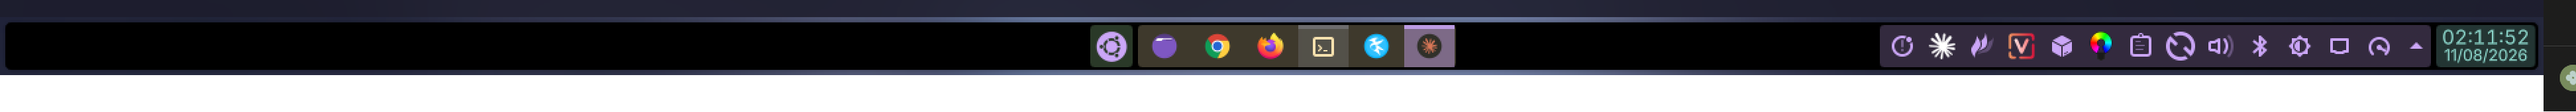
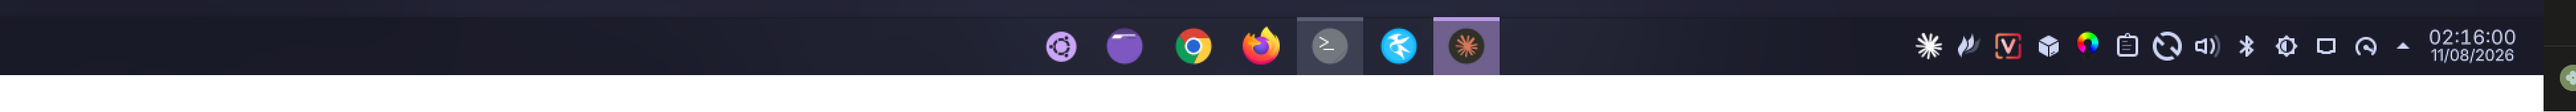
Drop Panel Colorizer (visual regression), compact global menu, hot-corner peek

diff --git a/README.md b/README.md
@@ -15,7 +15,7 @@ A complete **Catppuccin Mocha (Mauve accent)** desktop for **Kubuntu 26.04 / KDE
 | GTK 3/4 | catppuccin-mocha-mauve-standard | [catppuccin/gtk] |
 | Window deco | Breeze (follows color scheme) + rounded corners everywhere | [KDE-Rounded-Corners] |
 | KWin effects | blur 12, wobbly windows, magic lamp, scale, sheet, cube, dim screen | built-in |
-| Panels | Floating auto-hide top bars (both screens) + Win11-style floating taskbar with [Panel Colorizer] (custom *Bliss Mocha* preset) | `plasma/panels-v5.js` |
+| Panels | Floating auto-hide top bars (both screens, compact ☰ global menu, media controls) + Win11-style floating taskbar; peek-at-desktop via bottom-right hot corner | `plasma/panels-v5.js` |
 | Monitors | Synced pie charts CPU / RAM / GPU + compact ↓↑ network numbers | built-in system monitor |
 | SDDM | [SilentSDDM] `catppuccin-mocha` preset — custom background, mauve accent, real avatar, small password dots | `sddm/` |
 | Lock screen | Custom look-and-feel `org.kde.catppuccin.lock` — smaller password dots, blurred wallpaper matching SDDM | `plasma/look-and-feel/` |
@@ -38,7 +38,6 @@ kvantum/    Kvantum theme (translucent_windows=true, reduce_window_opacity=15)
 kde/        kdeglobals, kwinrc, kscreenlockerrc, katerc (reference copies)
 plasma/     panels-v5.js (rebuilds both bars via plasma scripting API),
             appletsrc + plasmashellrc reference, custom lockscreen LnF,
-            Panel Colorizer "Bliss Mocha" preset JSON
 sddm/       SilentSDDM config (mocha + mauve + custom bg) + sddm settings
 terminal/   Konsole scheme & profile, fastfetch config, p10k color overrides
 gtk/        GTK3 settings reference
@@ -58,7 +57,7 @@ screenshots/
    plasma-apply-cursortheme catppuccin-mocha-mauve-cursors
    /usr/lib/x86_64-linux-gnu/libexec/plasma-changeicons Tela-circle-purple-dark
    ```
-2. **Panels** — install [Panel Colorizer], then run `plasma/panels-v5.js`:
+2. **Panels** — run `plasma/panels-v5.js`:
    ```bash
    qdbus6 org.kde.plasmashell /PlasmaShell org.kde.PlasmaShell.evaluateScript "$(cat plasma/panels-v5.js)"
    ```
@@ -82,7 +81,6 @@ Catppuccin **Mocha**, accent **Mauve** `#cba6f7` — base `#1e1e2e`, surface `#3
 - [Catppuccin](https://github.com/catppuccin) — the soothing pastel theme (kvantum, kde, gtk, cursors, grub, plymouth, konsole, browsers)
 - [uiriansan/SilentSDDM](https://github.com/uiriansan/SilentSDDM) — the gorgeous Qt6 SDDM theme
 - [matinlotfali/KDE-Rounded-Corners](https://github.com/matinlotfali/KDE-Rounded-Corners) — rounded corners KWin effect
-- [luisbocanegra/plasma-panel-colorizer](https://github.com/luisbocanegra/plasma-panel-colorizer) — panel styling engine
 - [vinceliuice/Tela-circle-icon-theme](https://github.com/vinceliuice/Tela-circle-icon-theme) — icon theme
 - [orangci/walls-catppuccin-mocha](https://github.com/orangci/walls-catppuccin-mocha) — wallpapers (`galaxy-waves`, `purple-horizon`, `purpled-night`) — grab them from that repo
 
@@ -98,5 +96,4 @@ My own scripts and configs: MIT. Third-party themes keep their upstream licenses
 [catppuccin/plymouth]: https://github.com/catppuccin/plymouth
 [vinceliuice/Tela-circle-icon-theme]: https://github.com/vinceliuice/Tela-circle-icon-theme
 [KDE-Rounded-Corners]: https://github.com/matinlotfali/KDE-Rounded-Corners
-[Panel Colorizer]: https://github.com/luisbocanegra/plasma-panel-colorizer
 [SilentSDDM]: https://github.com/uiriansan/SilentSDDM
